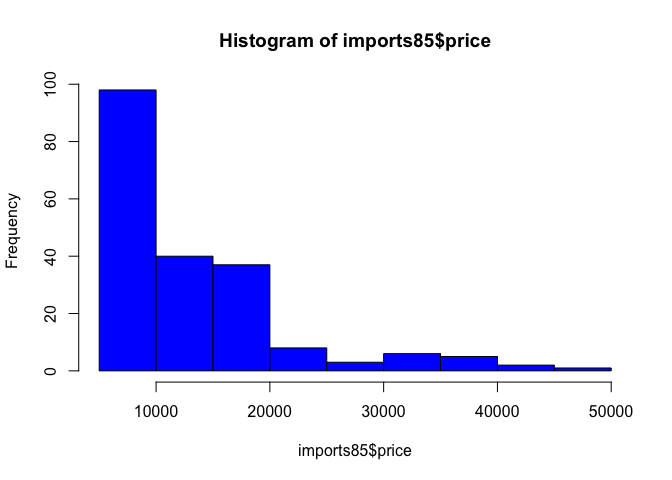
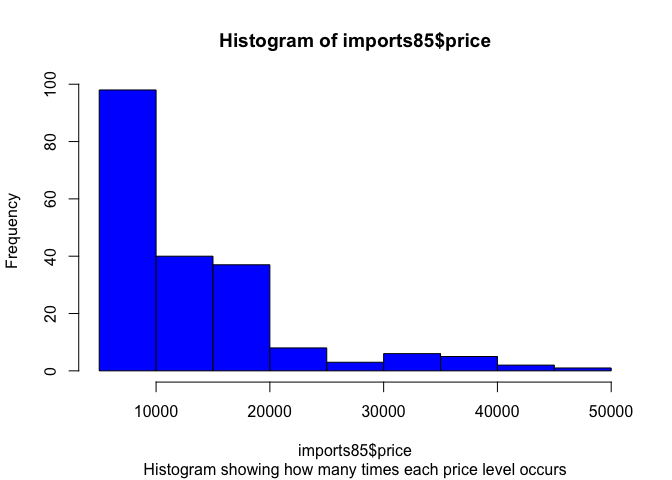
Final Draft!
Should be complete

Changed region(s): [[0.2188, 0.9688, 0.8438, 1.0]]

diff --git a/hw-01-phoebe-abramowitz.md b/hw-01-phoebe-abramowitz.md
@@ -10,33 +10,29 @@ Question 3
 ==========
 
 a)If you don't provide a vector of column names when invoking read.csv('imports-85.data'), the entries of the first row of data become the column names.
-
 b)If you don't provide a vector of column names when invoking read.csv('imports-85.data',header=FALSE), then the column names of the imported data are "V1","V2",...,"V26"
-
 c)If you don't specify how missing values are codified, then the data type of any column that contains "?" will be Factor.
-
-1.  The second object is bigger becuase characters take twice as many bits as integers and we specified many types as characters.
-
+d) The second object is bigger becuase characters take twice as many bits as integers and we specified many types as characters.
 e)If you do it as an R matrix, all the ones of the type character become NA becuase they're data types that can't be transformed into integers.
 
 Question 4
 ==========
 
 ``` r
-hist(imports85$price, col="blue")
+hist(imports85$price, col="blue",sub='Histogram showing how many times each price level occurs' )
 ```
 
 ![](hw-01-phoebe-abramowitz_files/figure-markdown_github/unnamed-chunk-1-1.png)
 
 ``` r
-boxplot(imports85$horsepower,horizontal = TRUE)
+boxplot(imports85$horsepower,horizontal = TRUE, sub='Summarizes the distribution of Horsepower' )
 ```
 
 ![](hw-01-phoebe-abramowitz_files/figure-markdown_github/unnamed-chunk-1-2.png)
 
 ``` r
 bs_frequency <- table(imports85$body_style)
-barplot(sort(bs_frequency,decreasing = TRUE))
+barplot(sort(bs_frequency,decreasing = TRUE),sub="Shows number of cars with each Body Style")
 ```
 
 ![](hw-01-phoebe-abramowitz_files/figure-markdown_github/unnamed-chunk-1-3.png)
@@ -46,7 +42,10 @@ stars(imports85[imports85$aspiration=='turbo',c('wheel_base','length','width',
                                                   'height','price')])
 ```
 
-![](hw-01-phoebe-abramowitz_files/figure-markdown_github/unnamed-chunk-1-4.png) \#Question 5
+![](hw-01-phoebe-abramowitz_files/figure-markdown_github/unnamed-chunk-1-4.png) The Stars plot displays the five variables(wheel\_base, length, width, height, and price) for each car that has turbo aspiration.
+
+Question 5
+==========
 
 ``` r
 gas_cars <- imports85[imports85$fuel_type=='gas',]
@@ -155,10 +154,15 @@ median(imports85[imports85$city_mpg<=bottom_city_mpg,'price'],na.rm=TRUE)
 Question 6
 ==========
 
-1.  "NULL" is returned b)mtcars\[, mpg\] fails to return the vector c)This is becuase putting mpg as the second index indicates that we're trying to retrieve the row by it's name, which should be a character in quotes to indicate that its a row name.
-2.  YES you can include and R list of the proper length as the column of a data frame because the data frame itself is a list. \#STILL NEED THESE e)When you apply as.list() to a data frame,
-3.  Question 7
-    ==========
+1.  "NULL" is returned
+2.  mtcars\[, mpg\] fails to return the vector
+3.  This is becuase putting mpg as the second index indicates that we're trying to retrieve the row by it's name, which should be a character in quotes to indicate that its a row name.
+4.  YES you can include and R list of the proper length as the column of a data frame because the data frame itself is a list.
+    e)When you apply as.list() to a data frame, under the heading of the name of the first column, every value from that first column is listed in the same order as the data frame, and similar lists are produced for the values of every column in the data frame.
+5.  You could use data.frame and input abc\[i\] as an argument to get desired ith column in the new dataframe.
+
+Question 7
+==========
 
 ``` r
 qdat <-  na.omit(imports85[,c(
